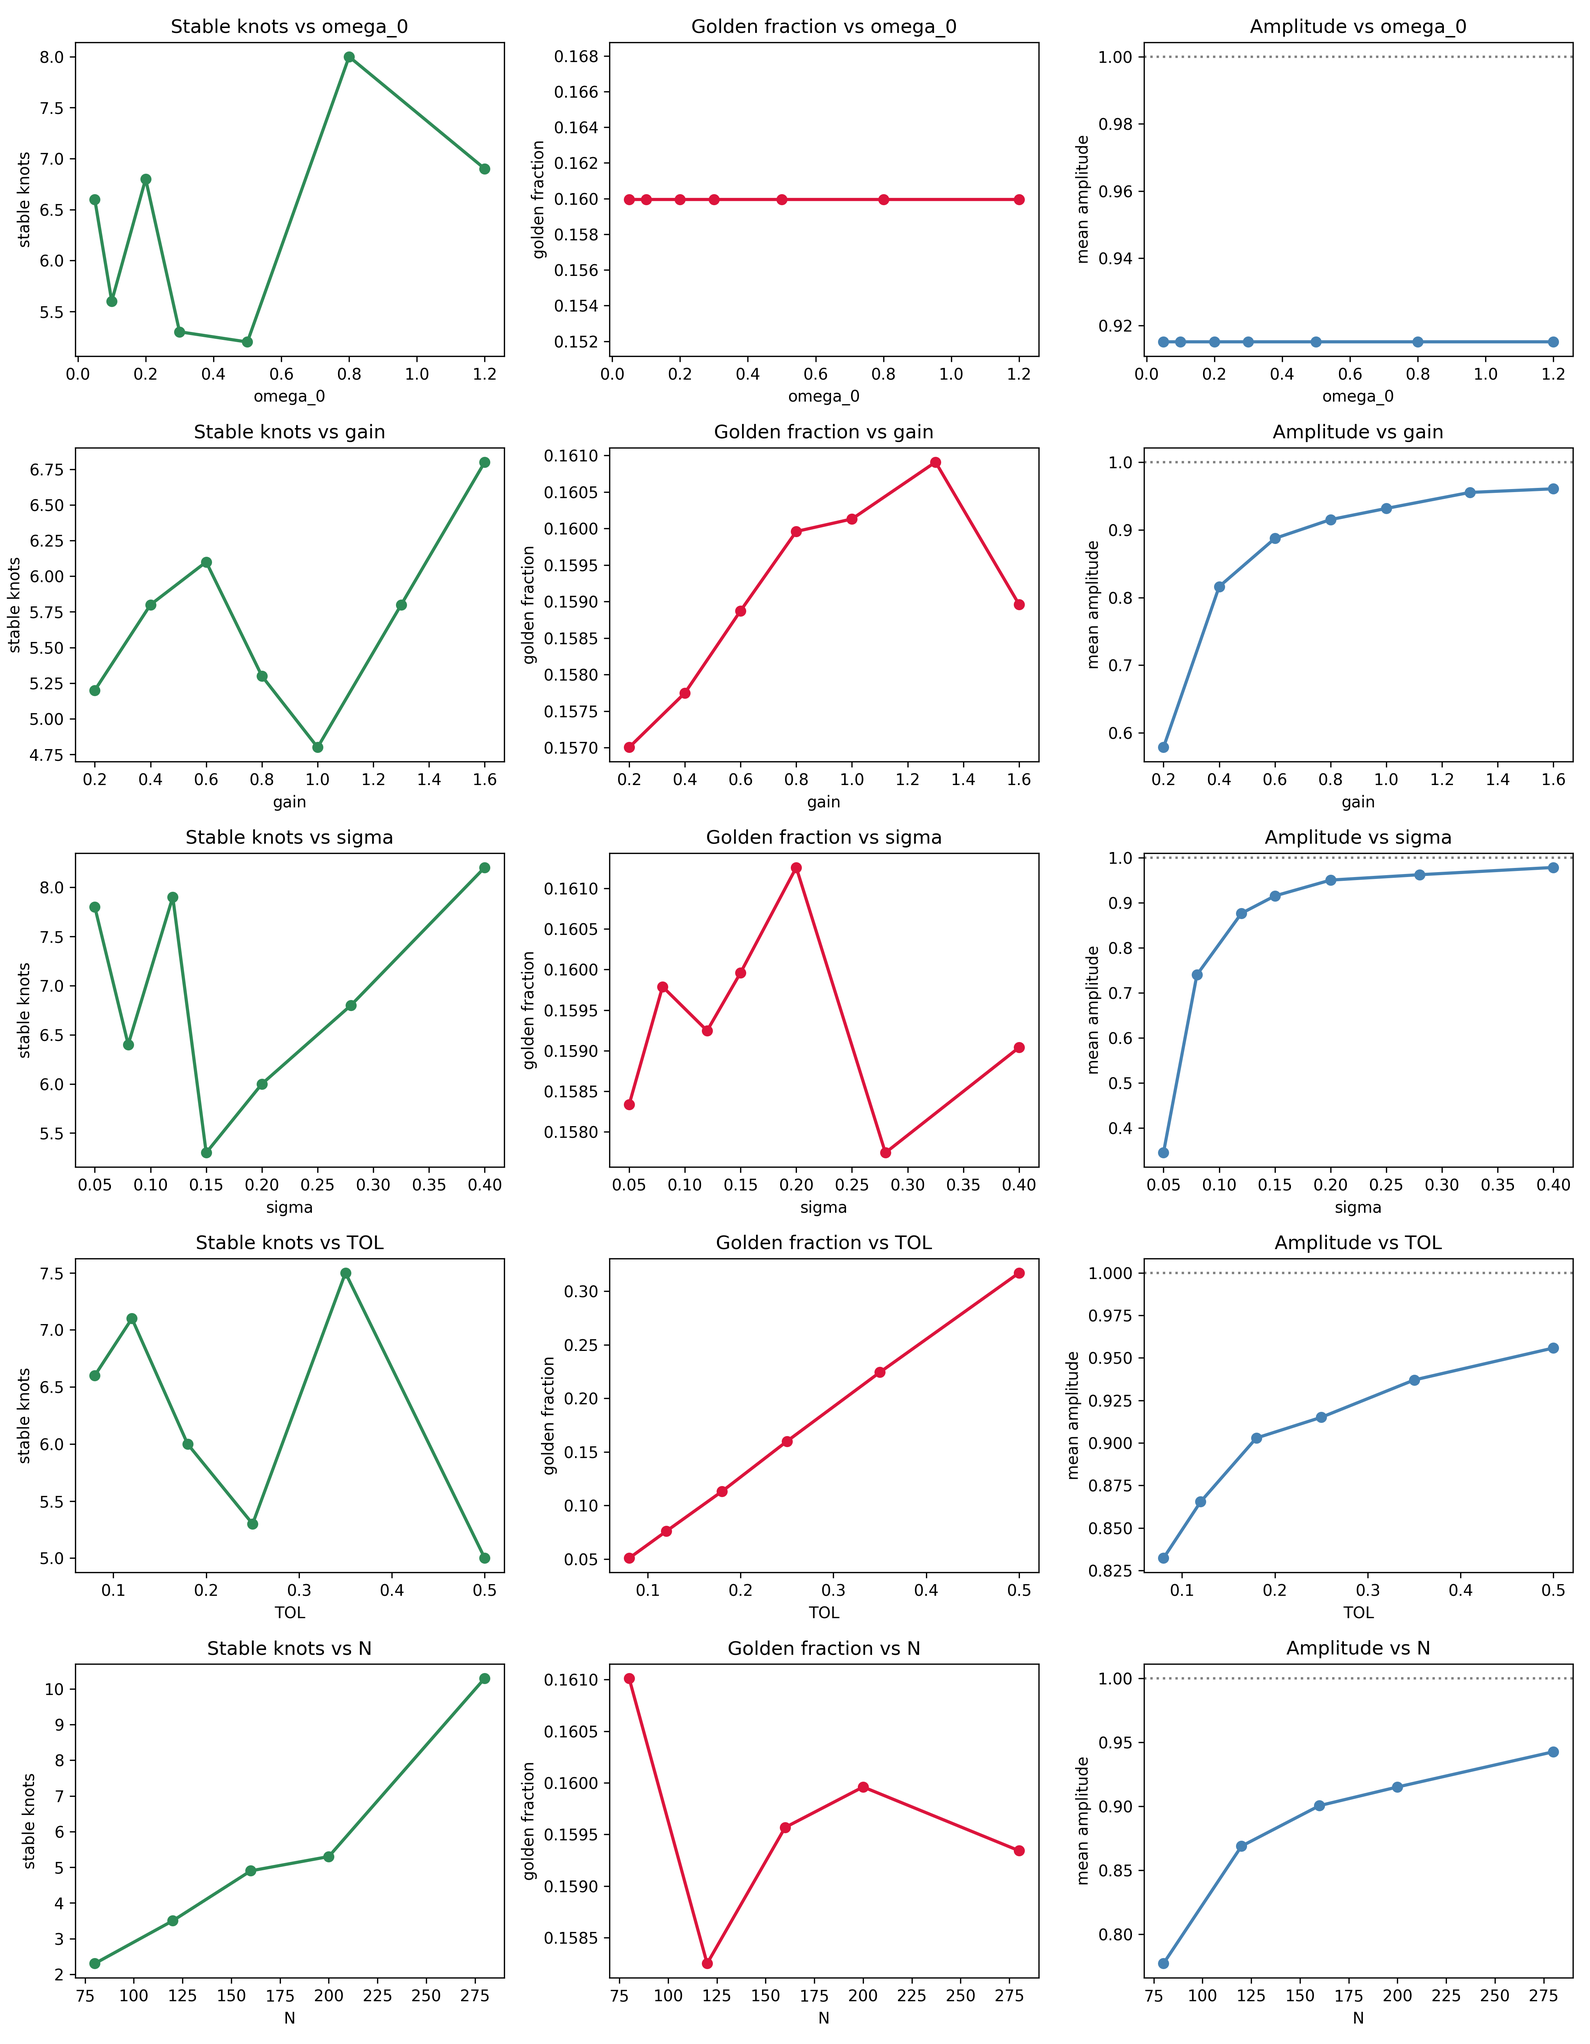
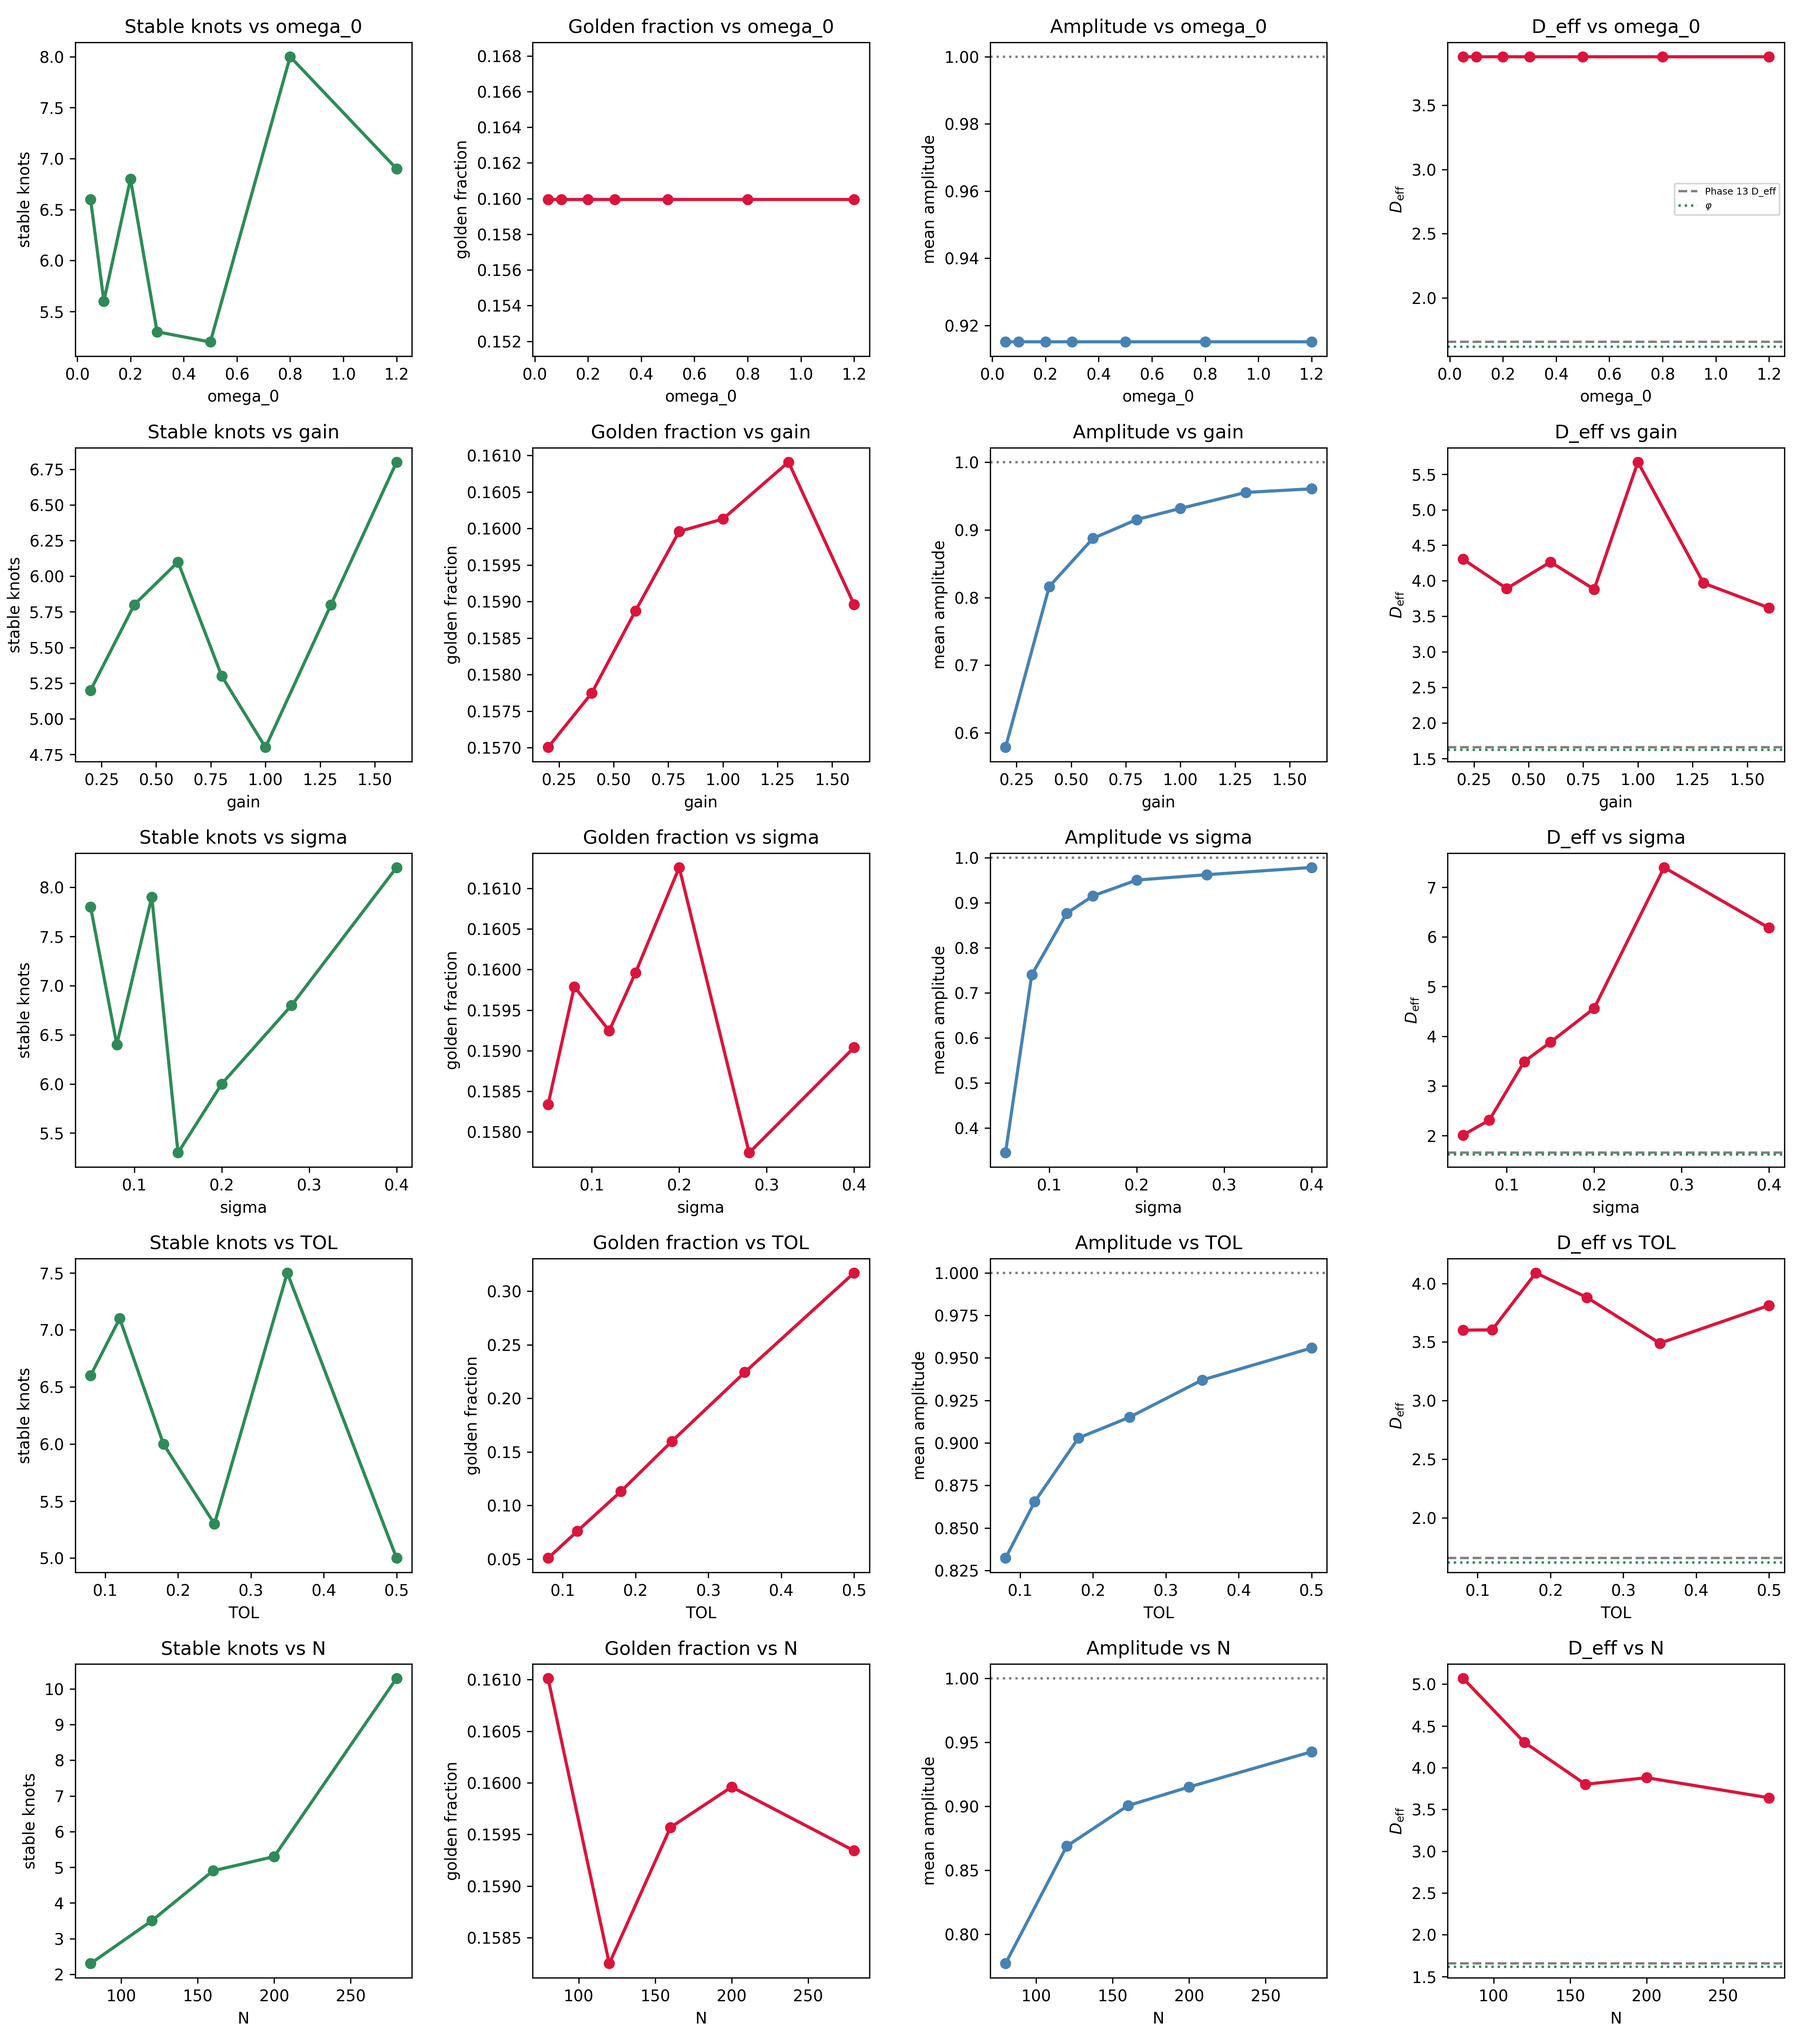
feat: Phase 25 — D_eff tracking in parameter sweep. D_eff varies 2.0-7.4 across sigma, NOT topology-locked. No regime reaches phi. Confirms: static Laplacian D_eff cannot converge to phi; phi requires dynamical RG (Phase 13).

diff --git a/code/phase24_param_scan.py b/code/phase24_param_scan.py
@@ -15,13 +15,34 @@ import matplotlib; matplotlib.use("Agg"); import matplotlib.pyplot as plt
 import numpy as np
 from phase1_klein_laplacian import PHI
 from phase23a_plonk_cycle import (
-    PlonkOscillator, PlonkSubstrate, fibonacci_lattice
+    PlonkOscillator, PlonkSubstrate, fibonacci_lattice, klein_distance, ALPHA_GOLD
 )
+import scipy.sparse.linalg as spla
+import scipy.sparse as sp
 
 OUT_DIR = os.path.join(os.path.dirname(__file__), "outputs", "phase24")
 
 # Defaults from Phase 23a
 DEF = {"omega_0": 0.3, "gain": 0.8, "sigma": 0.15, "TOL": 0.25, "N": 200}
+
+
+def compute_d_eff(sub):
+    """Spectral dimension from Laplacian of signed coupling matrix."""
+    W = sub._golden_coupling()
+    D_vec = np.asarray(np.abs(W).sum(axis=1)).ravel()
+    L = sp.diags(D_vec) - sp.csr_matrix(W)
+    N = L.shape[0]; k = min(20, N - 2)
+    try:
+        vals = spla.eigsh(L, k=k, sigma=-0.01, which="LM", tol=1e-6,
+                          return_eigenvectors=False)
+    except spla.ArpackError:
+        return np.nan
+    vals = np.sort(vals[vals > 1e-10])
+    if len(vals) < 8: return np.nan
+    imin = max(1, int(0.05*len(vals))); imax = max(imin+5, int(0.4*len(vals)))
+    lam, cnt = vals[imin:imax], np.arange(imin+1, imax+1)
+    slope, _ = np.polyfit(np.log(lam), np.log(cnt), 1)
+    return 2*slope
 
 
 def run_config(n_cycles=40, **kwargs):
@@ -47,6 +68,9 @@ def run_config(n_cycles=40, **kwargs):
         gold_hist.append(sub.golden_phase_fraction())
         amp_hist.append(np.mean([o.amp for o in sub.oscillators]))
 
+    # Compute D_eff from final coupling Laplacian
+    D_eff = compute_d_eff(sub)
+
     p23.TOL = old_tol
     last10 = slice(-10, None)
     return {
@@ -57,6 +81,7 @@ def run_config(n_cycles=40, **kwargs):
         "golden_std": np.std(gold_hist[last10]),
         "amp_mean": np.mean(amp_hist[last10]),
         "amp_std": np.std(amp_hist[last10]),
+        "D_eff": D_eff,
     }
 
 
@@ -88,10 +113,12 @@ def main():
         results = sweep(name, values)
         all_rows.extend(results)
         for r in results:
+            de = r['D_eff']
             print(f"  {name}={r['sweep_value']:5.2f}: "
                   f"stable={r['stable_mean']:5.1f} "
                   f"golden={r['golden_mean']:.3f} "
-                  f"amp={r['amp_mean']:.3f}")
+                  f"amp={r['amp_mean']:.3f} "
+                  f"D_eff={de:.3f}" if not (isinstance(de, float) and np.isnan(de)) else f"  D_eff=nan")
 
     with open(os.path.join(OUT_DIR, "param_scan.csv"), "w", newline="") as fh:
         w = csv.DictWriter(fh, fieldnames=list(all_rows[0].keys()))
@@ -103,7 +130,7 @@ def main():
 
 def make_figure(all_rows):
     params = ["omega_0", "gain", "sigma", "TOL", "N"]
-    fig, axes = plt.subplots(5, 3, figsize=(14, 18))
+    fig, axes = plt.subplots(5, 4, figsize=(16, 18))
 
     for row_idx, param in enumerate(params):
         pts = [r for r in all_rows if r["sweep_param"] == param]
@@ -128,6 +155,18 @@ def make_figure(all_rows):
         ax.axhline(1.0, color="gray", ls=":")
         ax.set_xlabel(param); ax.set_ylabel("mean amplitude")
         ax.set_title(f"Amplitude vs {param}")
+
+        ax = axes[row_idx, 3]
+        ds = [r["D_eff"] if not (isinstance(r["D_eff"], float) and np.isnan(r["D_eff"])) else np.nan for r in pts]
+        valid = [(x, d) for x, d in zip(xs, ds) if not np.isnan(d)]
+        if valid:
+            vx, vy = zip(*valid)
+            ax.plot(vx, vy, "o-", color="crimson", lw=2, ms=6)
+        ax.axhline(1.655, color="gray", ls="--", label="Phase 13 D_eff")
+        ax.axhline(1.618, color="seagreen", ls=":", label=r"$\varphi$")
+        ax.set_xlabel(param); ax.set_ylabel(r"$D_{\rm eff}$")
+        ax.set_title(f"D_eff vs {param}")
+        if row_idx == 0: ax.legend(fontsize=6)
 
     fig.tight_layout()
     fig.savefig(os.path.join(OUT_DIR, "param_scan.png"), dpi=300)
